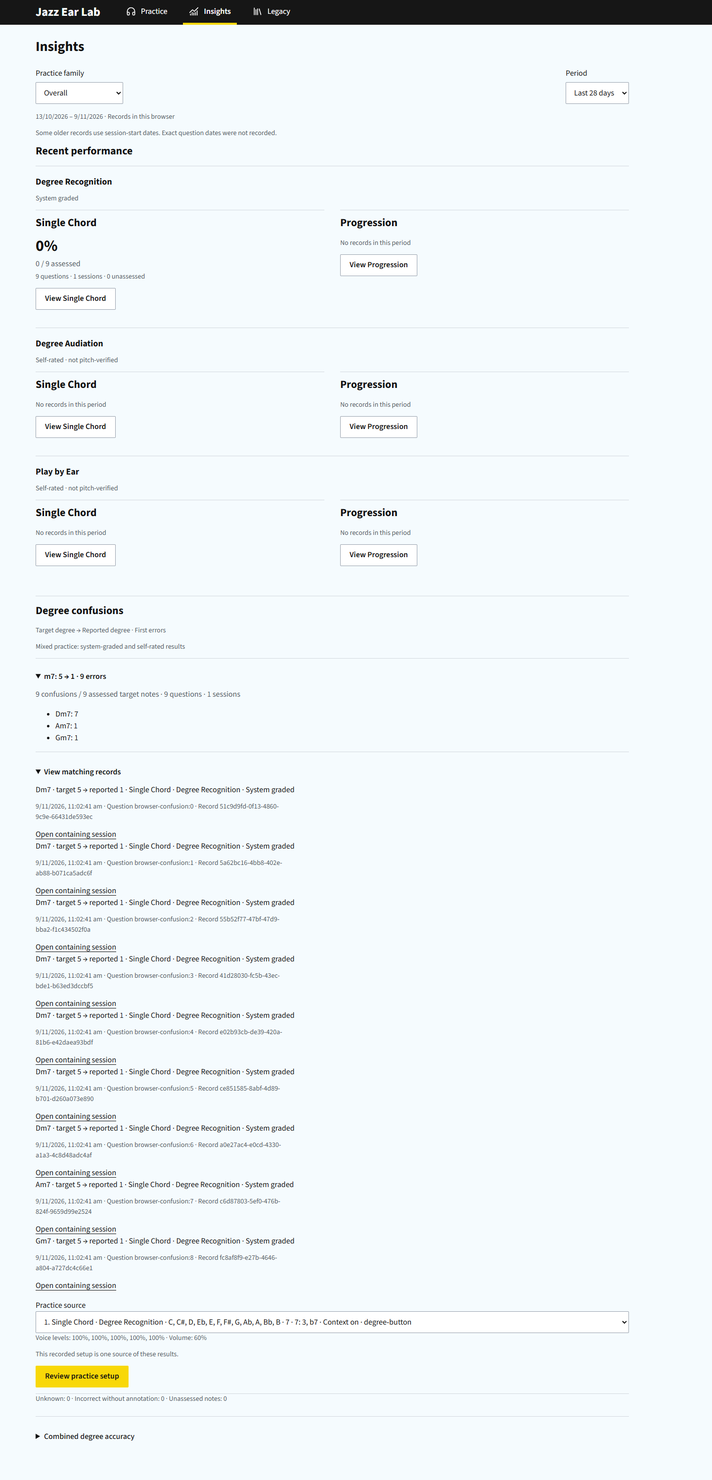
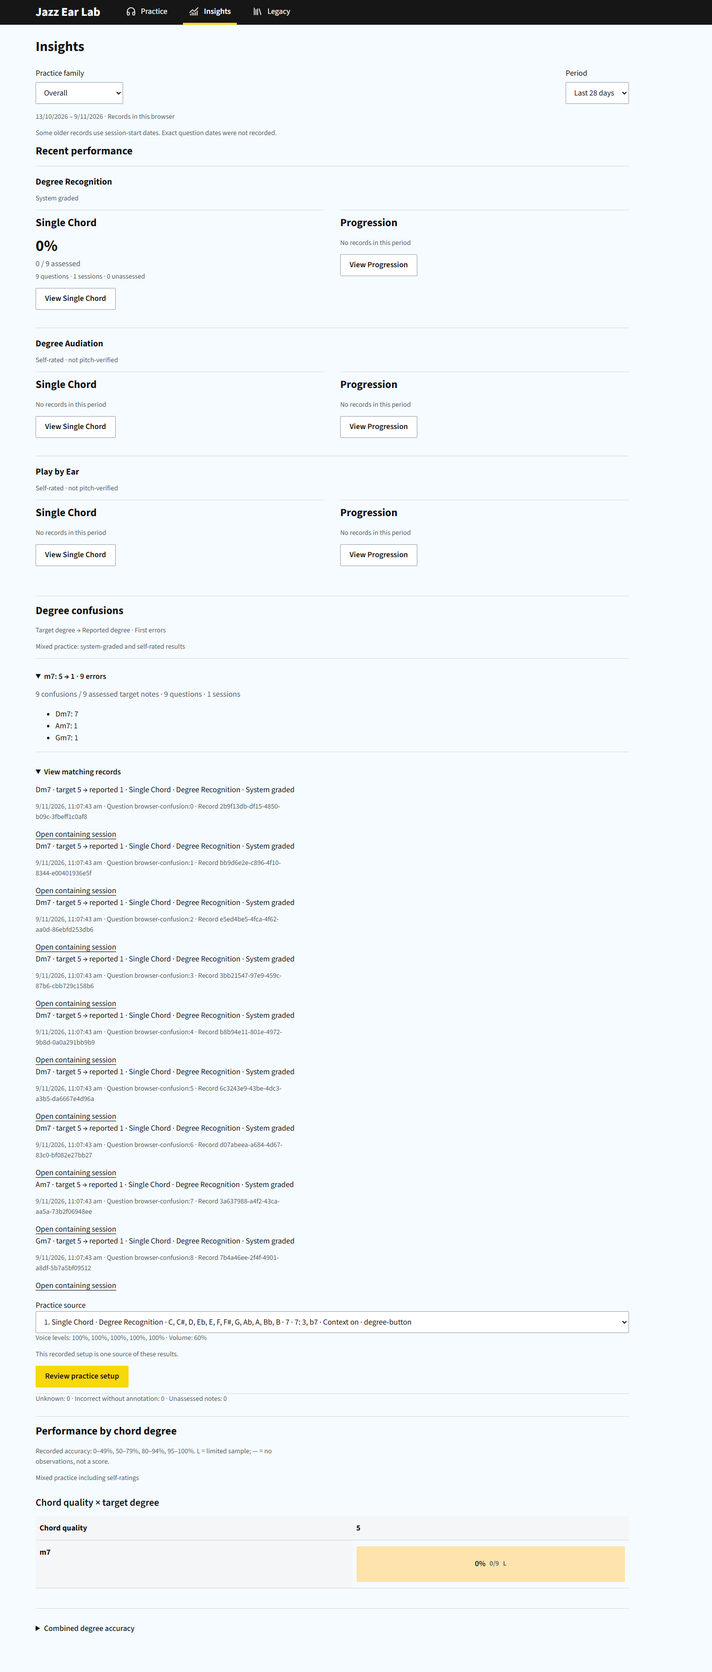
feat(v2): add chord degree performance heatmap (#29)

diff --git a/src/v2/insights-ui.ts b/src/v2/insights-ui.ts
@@ -1,7 +1,63 @@
 import {insightRecords,insightStats,insightPeriod,insightFilter,insightGroups,insightKeys,insightPriorities,insightConditionLabel,insightTrend,insightKeyComparison,insightEfficiency,insightEligible,insightStratum,insightSetupId,type InsightRecord,type InsightFamily,type InsightRun,type InsightFilters} from './insights.js';
 import {exerciseNames,modeForExercise} from './exercise-names.js';
 import type {Attempt,Session} from './model.js';
-import {insightConfusions} from './insights.js';
+import {insightConfusions,insightHeatmap} from './insights.js';
+
+function performanceSection(records:InsightRecord[],onSetup?: (record:InsightRecord,label:string,filters:InsightFilters)=>void){
+ const report=insightHeatmap(records),section=el('section','','insight-performance');
+ section.append(el('h2','Performance by chord degree'));
+ if(!report.cells.length){section.append(el('p','No recorded observations in this scope.'));return section;}
+ section.append(el('p','Recorded accuracy: 0–49%, 50–79%, 80–94%, 95–100%. L = limited sample; — = no observations, not a score.','insight-scope-note'));
+ const legend=el('div','','heatmap-legend');
+ for(const [band,text] of [['low','0–49%'],['mid','50–79%'],['high','80–94%'],['top','95–100%']]){const item=el('span',text),swatch=el('span','','heatmap-swatch');swatch.dataset.band=band;swatch.setAttribute('aria-hidden','true');item.prepend(swatch);legend.append(item);}section.append(legend);
+ if(view.family==='Overall')section.append(el('p','Mixed practice including self-ratings','insight-scope-note'));
+ const scroll=el('div','','table-scroll');scroll.tabIndex=0;scroll.setAttribute('role','region');scroll.setAttribute('aria-label','Chord degree performance');
+ const table=el('table'),head=el('thead'),tr=el('tr');table.append(el('caption','Chord quality × target degree'));
+ const corner=el('th','Chord quality');corner.scope='col';tr.append(corner);
+ for(const degree of report.degrees){const th=el('th',degree);th.scope='col';tr.append(th);}head.append(tr);table.append(head);
+ const body=el('tbody'),detail=el('section','','heatmap-evidence');detail.hidden=true;
+ let pending:string|null=null;
+ const scopeKey=JSON.stringify([view.family,view.context,view.days,view.key,view.root,view.quality,view.chord,view.degree,view.production,view.condition,view.setup]);
+ const stateKey='jazzEarLab:v2:heatmap:'+scopeKey;
+ const rememberReturn=()=>{try{sessionStorage.setItem(stateKey+':return','yes');}catch{/* Optional return focus. */}};
+ try{pending=sessionStorage.getItem(stateKey);}catch{/* Optional selection state. */}
+ for(const quality of report.qualities){
+  const row=el('tr'),th=el('th',quality);th.scope='row';row.append(th);
+  for(const degree of report.degrees){
+   const td=el('td'),cell=report.cells.find(c=>c.quality===quality&&c.degree===degree);
+   if(!cell){td.append(el('span','—'));td.setAttribute('aria-label',`${quality}, ${degree}: no observations`);row.append(td);continue;}
+   const label=`${quality}: ${degree}`,identity=JSON.stringify([quality,degree]);
+   const control=el('button',cell.rate===null?'Unassessed':Math.round(cell.rate*100)+'%','heatmap-cell');control.type='button';
+   const displayedRate=cell.rate===null?null:Math.round(cell.rate*100);
+   control.dataset.band=displayedRate===null?'none':displayedRate<50?'low':displayedRate<80?'mid':displayedRate<95?'high':'top';
+   control.append(el('small',`${cell.m.correct}/${cell.m.n}`),el('small',cell.status==='limited'?'L':cell.status==='unassessed'?'Not scored':''));
+   control.setAttribute('aria-label',`${label}, ${cell.rate===null?'unassessed':Math.round(cell.rate*100)+' percent'}, ${cell.m.correct} of ${cell.m.n} assessed notes, ${cell.m.questions} questions, ${cell.m.sessions} sessions, ${cell.status}`);
+   control.setAttribute('aria-pressed','false');
+   const selectCell=(focus=true)=>{
+    for(const b of Array.from(table.querySelectorAll('button')))b.setAttribute('aria-pressed',String(b===control));
+    control.setAttribute('aria-pressed','true');
+    try{sessionStorage.setItem(stateKey,identity);}catch{/* Optional selection state. */}
+    detail.hidden=false;detail.replaceChildren();const title=el('h3',`${label} · Recorded results`);title.tabIndex=-1;
+    detail.append(title,el('p',`${cell.m.correct} / ${cell.m.n} assessed notes · ${cell.m.questions} questions · ${cell.m.sessions} sessions · ${cell.m.unassessed} unassessed notes`),el('p',cell.status==='limited'?'Limited sample: not a reliable strength or weakness.':cell.status==='unassessed'?'No accuracy result yet.':'Recorded across the selected practice scope.'));
+    const evidence=details('Matching heatmap records');
+    for(const r of cell.items){const line=el('p'),link=el('a','Open containing session');link.href=r.href;link.onclick=rememberReturn;line.append(el('span',`${r.chordLabel} · ${r.degree} · ${r.a.firstCorrect===null?'Unassessed':r.a.firstCorrect?'Correct':'Incorrect'} · ${r.a.gradingSource==='self'?'Self-rated':'System graded'} · Question ${r.questionId} · Record ${r.a.id} `),link);evidence.append(line);}detail.append(evidence);
+    const sources=[...new Map(cell.items.filter(r=>r.sourceKnown).map(r=>[r.a.exercise+'|'+insightSetupId(r),r])).values()];
+    if(onSetup&&sources.length){const l=el('label','Practice source'),s=el('select');s.setAttribute('aria-label',`Practice source for ${label}`);
+     sources.forEach((r,i)=>{const c=r.source,levels='mode'in c?c.levels:c.voiceLevels??[1,1,1,1,1];const o=el('option',`${i+1}. ${exerciseNames[r.a.exercise]} · ${insightConditionLabel(r)} · Volume ${Math.round(c.volume*100)}% · Voices ${levels.map(v=>Math.round(v*100)+'%').join(', ')}`);o.value=String(i);s.append(o);});
+     const sourceKey=stateKey+':source:'+identity;try{const saved=sessionStorage.getItem(sourceKey);if(saved!==null&&sources[Number(saved)])s.value=saved;}catch{/* Optional source choice. */}
+     s.onchange=()=>{try{sessionStorage.setItem(sourceKey,s.value);}catch{/* Optional source choice. */}};
+     l.append(s);detail.append(l,el('p','One recorded setup, not every condition in this cell.','insight-scope-note'));
+     const action=el('button','Review practice setup');action.type='button';action.onclick=()=>{rememberReturn();onSetup(sources[Number(s.value)],label,{...(view.key?{key:view.key}:{}),...(view.root?{root:view.root}:{}),...(view.chord?{chord:view.chord}:{}),quality,degree});};detail.append(action);
+    }
+    const close=el('button','Back to heatmap','secondary');close.type='button';close.onclick=()=>{detail.hidden=true;control.setAttribute('aria-pressed','false');try{sessionStorage.removeItem(stateKey);}catch{/* Optional selection state. */}control.focus();};detail.append(close);
+    if(focus)title.focus();
+   };
+   control.onclick=()=>selectCell();td.append(control);row.append(td);
+   if(pending===identity){selectCell(false);try{if(sessionStorage.getItem(stateKey+':return')){sessionStorage.removeItem(stateKey+':return');requestAnimationFrame(()=>control.focus());}}catch{/* Optional return focus. */}}
+  }body.append(row);
+ }
+ table.append(body);scroll.append(table);section.append(scroll,detail);return section;
+}
 
 function confusionSection(records:InsightRecord[],onSetup?: (record:InsightRecord,label:string,filters:InsightFilters)=>void){
  const report=insightConfusions(records),section=el('section','','insight-confusions');
@@ -87,7 +143,7 @@ export function renderInsights(host:HTMLElement,sessions:Session[],runs:InsightR
    const active=Object.entries({key:view.key,root:view.root,quality:view.quality,chord:view.chord,degree:view.degree}).filter(([,value])=>value);if(active.length)host.append(el('p','Filters: '+active.map(([key,value])=>key+': '+value+(key==='key'?' (progression only)':'')).join(' · ')),button('Clear filters',reset));
    if(!scope.length){host.append(el('p',all.length?'No matching records in this period. Try a wider period.':'No V2 records in this browser. Choose an exercise to begin.'),button('Show all time',()=>{view.days=0;}));const link=el('a','Choose an exercise');link.href='#home';host.append(link);finish();return;}
    for(const family of families){const section=el('section','','insight-family');section.append(el('h3',family),el('p',family==='Degree Recognition'?'System graded':'Self-rated · not pitch-verified','insight-scope-note'));const grid=el('div','','insight-family-contexts');for(const context of ['Single Chord','Progression'] as const){const records=overviewRows.filter(r=>r.family===family&&r.context===context),block=outcome(records,context,true);const enter=button('View '+context+' · '+family,()=>changeScope(family,context));enter.setAttribute('aria-label','View '+context+' · '+family);enter.textContent='View '+context;block.append(enter);grid.append(block);}section.append(grid);host.append(section);}
-   host.append(confusionSection(overviewRows,onSetup),details('Combined degree accuracy',outcome(overviewRows,'Mixed practice including self-ratings')));
+   host.append(confusionSection(overviewRows,onSetup),performanceSection(overviewRows,onSetup),details('Combined degree accuracy',outcome(overviewRows,'Mixed practice including self-ratings')));
   }else{
    const mode=Object.entries(exerciseNames).find(([,name])=>name===view.context+' · '+view.family)![0];
    const allMode=all.filter(r=>r.a.exercise===mode).filter(r=>(!view.condition||insightStratum(r)===view.condition)&&(!view.setup||insightSetupId(r)===view.setup)).filter(r=>mode!=='m1'||view.production==='all'||(view.production==='played'?r.a.responseMethod==='played':['imagined','sung'].includes(r.a.responseMethod)));
@@ -116,7 +172,7 @@ export function renderInsights(host:HTMLElement,sessions:Session[],runs:InsightR
     const evidenceButton=button('View evidence: '+item.label,()=>{reset();Object.assign(view,item.filters);if(item.kind==='error')view.condition=insightStratum(item.basis)??'';else view.setup=insightSetupId(item.basis);view.dimension=item.filters.degree?'Degree':'Chord';});evidenceButton.setAttribute('aria-label','View evidence: '+item.label);evidenceButton.textContent='View evidence';row.append(evidenceButton);
     next.append(row);
    }const lead=el('div','','insight-lead'),performance=el('div');performance.append(result,trendSection);lead.append(performance,next);host.append(lead);
-   host.append(confusionSection(rows,onSetup));
+   host.append(confusionSection(rows,onSetup),performanceSection(rows,onSetup));
    const analysis=el('section','','insight-analysis');analysis.append(el('h2','Explore the music'));
    const tabs=el('div','','insight-tabs');
    for(const name of ['Key','Chord','Degree'])tabs.append(button(name==='Key'&&view.context==='Single Chord'?'Chord root':name,()=>{view.dimension=name;view.all=false;},view.dimension===name));analysis.append(tabs);

diff --git a/js/v2/insights-ui.js b/js/v2/insights-ui.js
@@ -1,6 +1,150 @@
 import { insightRecords, insightStats, insightPeriod, insightFilter, insightGroups, insightKeys, insightPriorities, insightConditionLabel, insightTrend, insightKeyComparison, insightEfficiency, insightEligible, insightStratum, insightSetupId } from './insights.js';
 import { exerciseNames, modeForExercise } from './exercise-names.js';
-import { insightConfusions } from './insights.js';
+import { insightConfusions, insightHeatmap } from './insights.js';
+function performanceSection(records, onSetup) {
+    const report = insightHeatmap(records), section = el('section', '', 'insight-performance');
+    section.append(el('h2', 'Performance by chord degree'));
+    if (!report.cells.length) {
+        section.append(el('p', 'No recorded observations in this scope.'));
+        return section;
+    }
+    section.append(el('p', 'Recorded accuracy: 0–49%, 50–79%, 80–94%, 95–100%. L = limited sample; — = no observations, not a score.', 'insight-scope-note'));
+    const legend = el('div', '', 'heatmap-legend');
+    for (const [band, text] of [['low', '0–49%'], ['mid', '50–79%'], ['high', '80–94%'], ['top', '95–100%']]) {
+        const item = el('span', text), swatch = el('span', '', 'heatmap-swatch');
+        swatch.dataset.band = band;
+        swatch.setAttribute('aria-hidden', 'true');
+        item.prepend(swatch);
+        legend.append(item);
+    }
+    section.append(legend);
+    if (view.family === 'Overall')
+        section.append(el('p', 'Mixed practice including self-ratings', 'insight-scope-note'));
+    const scroll = el('div', '', 'table-scroll');
+    scroll.tabIndex = 0;
+    scroll.setAttribute('role', 'region');
+    scroll.setAttribute('aria-label', 'Chord degree performance');
+    const table = el('table'), head = el('thead'), tr = el('tr');
+    table.append(el('caption', 'Chord quality × target degree'));
+    const corner = el('th', 'Chord quality');
+    corner.scope = 'col';
+    tr.append(corner);
+    for (const degree of report.degrees) {
+        const th = el('th', degree);
+        th.scope = 'col';
+        tr.append(th);
+    }
+    head.append(tr);
+    table.append(head);
+    const body = el('tbody'), detail = el('section', '', 'heatmap-evidence');
+    detail.hidden = true;
+    let pending = null;
+    const scopeKey = JSON.stringify([view.family, view.context, view.days, view.key, view.root, view.quality, view.chord, view.degree, view.production, view.condition, view.setup]);
+    const stateKey = 'jazzEarLab:v2:heatmap:' + scopeKey;
+    const rememberReturn = () => { try {
+        sessionStorage.setItem(stateKey + ':return', 'yes');
+    }
+    catch { /* Optional return focus. */ } };
+    try {
+        pending = sessionStorage.getItem(stateKey);
+    }
+    catch { /* Optional selection state. */ }
+    for (const quality of report.qualities) {
+        const row = el('tr'), th = el('th', quality);
+        th.scope = 'row';
+        row.append(th);
+        for (const degree of report.degrees) {
+            const td = el('td'), cell = report.cells.find(c => c.quality === quality && c.degree === degree);
+            if (!cell) {
+                td.append(el('span', '—'));
+                td.setAttribute('aria-label', `${quality}, ${degree}: no observations`);
+                row.append(td);
+                continue;
+            }
+            const label = `${quality}: ${degree}`, identity = JSON.stringify([quality, degree]);
+            const control = el('button', cell.rate === null ? 'Unassessed' : Math.round(cell.rate * 100) + '%', 'heatmap-cell');
+            control.type = 'button';
+            const displayedRate = cell.rate === null ? null : Math.round(cell.rate * 100);
+            control.dataset.band = displayedRate === null ? 'none' : displayedRate < 50 ? 'low' : displayedRate < 80 ? 'mid' : displayedRate < 95 ? 'high' : 'top';
+            control.append(el('small', `${cell.m.correct}/${cell.m.n}`), el('small', cell.status === 'limited' ? 'L' : cell.status === 'unassessed' ? 'Not scored' : ''));
+            control.setAttribute('aria-label', `${label}, ${cell.rate === null ? 'unassessed' : Math.round(cell.rate * 100) + ' percent'}, ${cell.m.correct} of ${cell.m.n} assessed notes, ${cell.m.questions} questions, ${cell.m.sessions} sessions, ${cell.status}`);
+            control.setAttribute('aria-pressed', 'false');
+            const selectCell = (focus = true) => {
+                for (const b of Array.from(table.querySelectorAll('button')))
+                    b.setAttribute('aria-pressed', String(b === control));
+                control.setAttribute('aria-pressed', 'true');
+                try {
+                    sessionStorage.setItem(stateKey, identity);
+                }
+                catch { /* Optional selection state. */ }
+                detail.hidden = false;
+                detail.replaceChildren();
+                const title = el('h3', `${label} · Recorded results`);
+                title.tabIndex = -1;
+                detail.append(title, el('p', `${cell.m.correct} / ${cell.m.n} assessed notes · ${cell.m.questions} questions · ${cell.m.sessions} sessions · ${cell.m.unassessed} unassessed notes`), el('p', cell.status === 'limited' ? 'Limited sample: not a reliable strength or weakness.' : cell.status === 'unassessed' ? 'No accuracy result yet.' : 'Recorded across the selected practice scope.'));
+                const evidence = details('Matching heatmap records');
+                for (const r of cell.items) {
+                    const line = el('p'), link = el('a', 'Open containing session');
+                    link.href = r.href;
+                    link.onclick = rememberReturn;
+                    line.append(el('span', `${r.chordLabel} · ${r.degree} · ${r.a.firstCorrect === null ? 'Unassessed' : r.a.firstCorrect ? 'Correct' : 'Incorrect'} · ${r.a.gradingSource === 'self' ? 'Self-rated' : 'System graded'} · Question ${r.questionId} · Record ${r.a.id} `), link);
+                    evidence.append(line);
+                }
+                detail.append(evidence);
+                const sources = [...new Map(cell.items.filter(r => r.sourceKnown).map(r => [r.a.exercise + '|' + insightSetupId(r), r])).values()];
+                if (onSetup && sources.length) {
+                    const l = el('label', 'Practice source'), s = el('select');
+                    s.setAttribute('aria-label', `Practice source for ${label}`);
+                    sources.forEach((r, i) => { const c = r.source, levels = 'mode' in c ? c.levels : c.voiceLevels ?? [1, 1, 1, 1, 1]; const o = el('option', `${i + 1}. ${exerciseNames[r.a.exercise]} · ${insightConditionLabel(r)} · Volume ${Math.round(c.volume * 100)}% · Voices ${levels.map(v => Math.round(v * 100) + '%').join(', ')}`); o.value = String(i); s.append(o); });
+                    const sourceKey = stateKey + ':source:' + identity;
+                    try {
+                        const saved = sessionStorage.getItem(sourceKey);
+                        if (saved !== null && sources[Number(saved)])
+                            s.value = saved;
+                    }
+                    catch { /* Optional source choice. */ }
+                    s.onchange = () => { try {
+                        sessionStorage.setItem(sourceKey, s.value);
+                    }
+                    catch { /* Optional source choice. */ } };
+                    l.append(s);
+                    detail.append(l, el('p', 'One recorded setup, not every condition in this cell.', 'insight-scope-note'));
+                    const action = el('button', 'Review practice setup');
+                    action.type = 'button';
+                    action.onclick = () => { rememberReturn(); onSetup(sources[Number(s.value)], label, { ...(view.key ? { key: view.key } : {}), ...(view.root ? { root: view.root } : {}), ...(view.chord ? { chord: view.chord } : {}), quality, degree }); };
+                    detail.append(action);
+                }
+                const close = el('button', 'Back to heatmap', 'secondary');
+                close.type = 'button';
+                close.onclick = () => { detail.hidden = true; control.setAttribute('aria-pressed', 'false'); try {
+                    sessionStorage.removeItem(stateKey);
+                }
+                catch { /* Optional selection state. */ } control.focus(); };
+                detail.append(close);
+                if (focus)
+                    title.focus();
+            };
+            control.onclick = () => selectCell();
+            td.append(control);
+            row.append(td);
+            if (pending === identity) {
+                selectCell(false);
+                try {
+                    if (sessionStorage.getItem(stateKey + ':return')) {
+                        sessionStorage.removeItem(stateKey + ':return');
+                        requestAnimationFrame(() => control.focus());
+                    }
+                }
+                catch { /* Optional return focus. */ }
+            }
+        }
+        body.append(row);
+    }
+    table.append(body);
+    scroll.append(table);
+    section.append(scroll, detail);
+    return section;
+}
 function confusionSection(records, onSetup) {
     const report = insightConfusions(records), section = el('section', '', 'insight-confusions');
     section.append(el('h2', 'Degree confusions'), el('p', 'Target degree → Reported degree · First errors', 'insight-scope-note'));
@@ -191,7 +335,7 @@ export function renderInsights(host, sessions, runs, evidence, onSetup) {
                 section.append(grid);
                 host.append(section);
             }
-            host.append(confusionSection(overviewRows, onSetup), details('Combined degree accuracy', outcome(overviewRows, 'Mixed practice including self-ratings')));
+            host.append(confusionSection(overviewRows, onSetup), performanceSection(overviewRows, onSetup), details('Combined degree accuracy', outcome(overviewRows, 'Mixed practice including self-ratings')));
         }
         else {
             const mode = Object.entries(exerciseNames).find(([, name]) => name === view.context + ' · ' + view.family)[0];
@@ -263,7 +407,7 @@ export function renderInsights(host, sessions, runs, evidence, onSetup) {
             performance.append(result, trendSection);
             lead.append(performance, next);
             host.append(lead);
-            host.append(confusionSection(rows, onSetup));
+            host.append(confusionSection(rows, onSetup), performanceSection(rows, onSetup));
             const analysis = el('section', '', 'insight-analysis');
             analysis.append(el('h2', 'Explore the music'));
             const tabs = el('div', '', 'insight-tabs');

diff --git a/jazz-ear-lab-v2/v2.css b/jazz-ear-lab-v2/v2.css
@@ -475,3 +475,24 @@ input[type="number"], output, .session-count, .assessment-count, .unassessed,
 .insight-confusions select{max-width:100%;width:100%;min-width:0;}
 .insight-confusions p,.insight-confusions a{overflow-wrap:anywhere;}
 .insight-confusions button{white-space:normal;}
+.insight-performance{border-top:1px solid #d4d9df;padding:16px 0;margin:24px 0;min-width:0;}
+.insight-performance .table-scroll{max-width:100%;overflow-x:auto;}
+.insight-performance table{width:max-content;min-width:min(100%,640px);}
+.insight-performance .heatmap-cell{display:flex;flex-direction:column;align-items:center;justify-content:center;gap:2px;width:100%;min-width:80px;min-height:72px;padding:8px;color:#111;border:1px solid transparent;border-radius:2px;font-variant-numeric:tabular-nums;}
+.heatmap-cell small{display:block;}
+.insights-work .insight-performance .heatmap-cell[data-band=none]{background:#edf0f2;}
+.insights-work .insight-performance .heatmap-cell[data-band=low]{background:#ffe3ac;}
+.insights-work .insight-performance .heatmap-cell[data-band=mid]{background:#e4efd9;}
+.insights-work .insight-performance .heatmap-cell[data-band=high]{background:#a8e4d4;}
+.insights-work .insight-performance .heatmap-cell[data-band=top]{background:#62cdb7;}
+.insights-work .insight-performance .heatmap-cell[aria-pressed=true]{border:2px solid #111;}
+.heatmap-evidence{border-top:1px solid #d4d9df;margin-top:16px;padding-top:16px;}
+.heatmap-evidence p,.heatmap-evidence a{overflow-wrap:anywhere;}
+.heatmap-evidence select{width:100%;min-width:0;max-width:100%;}
+.heatmap-legend{display:flex;flex-wrap:wrap;gap:12px;margin-bottom:16px;}
+.heatmap-legend>span{display:inline-flex;align-items:center;gap:6px;}
+.heatmap-swatch{display:inline-block;width:18px;height:18px;border:1px solid #7b8790;}
+.heatmap-swatch[data-band=low]{background:#ffe3ac;}
+.heatmap-swatch[data-band=mid]{background:#e4efd9;}
+.heatmap-swatch[data-band=high]{background:#a8e4d4;}
+.heatmap-swatch[data-band=top]{background:#62cdb7;}

diff --git a/js/v2/insights.js b/js/v2/insights.js
@@ -258,6 +258,23 @@ export function insightEfficiency(records) {
     return { groups: [...values.values()].map(g => { g.values.sort((a, b) => a - b); const n = g.values.length; return { label: g.label, n, median: (g.values[Math.floor(n / 2)] + g.values[Math.floor((n - 1) / 2)]) / 2 }; }), excluded: [...excluded].map(([reason, n]) => ({ reason, n })) };
 }
 export function insightSetupId(r) { return stable(sourceConditions(r)); }
+export function insightHeatmap(records) {
+    const groups = new Map();
+    for (const r of new Map(records.map(r => [r.a.id, r])).values()) {
+        const key = JSON.stringify([r.quality, r.degree]), items = groups.get(key) ?? [];
+        items.push(r);
+        groups.set(key, items);
+    }
+    const cells = [...groups.values()].map(items => {
+        const m = insightStats(items);
+        return { quality: items[0].quality, degree: items[0].degree, items, m, rate: m.n ? m.correct / m.n : null,
+            status: !m.n ? 'unassessed' : insightEligible(items) ? 'recorded' : 'limited' };
+    });
+    const degreeOrder = (d) => d === 'maj7' ? 7 : Number(d.replace(/[#b]/g, ''));
+    return { cells, qualities: [...new Set(cells.map(c => c.quality))].sort(),
+        degrees: [...new Set(cells.map(c => c.degree))].sort((a, b) => degreeOrder(a) - degreeOrder(b) ||
+            ([...a].filter(c => c === '#').length - [...a].filter(c => c === 'b').length) - ([...b].filter(c => c === '#').length - [...b].filter(c => c === 'b').length) || a.localeCompare(b)) };
+}
 export function insightConfusions(records) {
     const unique = [...new Map(records.map(r => [r.a.id, r])).values()];
     const directions = new Map();

diff --git a/src/v2/insights.ts b/src/v2/insights.ts
@@ -173,6 +173,23 @@ export function insightEfficiency(records:InsightRecord[]){
 
 export function insightSetupId(r:InsightRecord){return stable(sourceConditions(r));}
 
+export function insightHeatmap(records:InsightRecord[]){
+ const groups=new Map<string,InsightRecord[]>();
+ for(const r of new Map(records.map(r=>[r.a.id,r])).values()){
+  const key=JSON.stringify([r.quality,r.degree]),items=groups.get(key)??[];
+  items.push(r);groups.set(key,items);
+ }
+ const cells=[...groups.values()].map(items=>{
+  const m=insightStats(items);
+  return {quality:items[0].quality,degree:items[0].degree,items,m,rate:m.n?m.correct/m.n:null,
+   status:!m.n?'unassessed':insightEligible(items)?'recorded':'limited'};
+ });
+ const degreeOrder=(d:string)=>d==='maj7'?7:Number(d.replace(/[#b]/g,''));
+ return {cells,qualities:[...new Set(cells.map(c=>c.quality))].sort(),
+  degrees:[...new Set(cells.map(c=>c.degree))].sort((a,b)=>degreeOrder(a)-degreeOrder(b)||
+   ([...a].filter(c=>c==='#').length-[...a].filter(c=>c==='b').length)-([...b].filter(c=>c==='#').length-[...b].filter(c=>c==='b').length)||a.localeCompare(b))};
+}
+
 export function insightConfusions(records:InsightRecord[]) {
  const unique=[...new Map(records.map(r=>[r.a.id,r])).values()];
  const directions=new Map<string,{quality:string;target:string;reported:string;items:InsightRecord[]}>();

diff --git a/.impeccable/review/v2-heatmap/README.md b/.impeccable/review/v2-heatmap/README.md
@@ -1,0 +1,27 @@
+# Performance heatmap (#29)
+
+Synthetic fixtures only; no personal browser records read or changed.
+
+Checks: TypeScript build and 176 Node tests passed; three existing Insights
+browser suites passed; new heatmap browser journey passed in Edge. New tests
+cover 15/30 aggregation rather than percentage averaging, deduplication,
+immutable input, deliberate degree spellings, unassessed and zero-correct
+states, exact evidence count, labelled source preview, selection on return,
+keyboard close/focus restoration, mode scope and no whole-page overflow at
+1440/390/320px. Screenshots are cropped to the new section, with bounded
+horizontal table scrolling on narrow screens.
+
+No audio/scoring changes. Full V2 playback regression was not rerun for this
+ticket: the previous attempt stopped on a Roots uncheck timeout, as recorded
+under v2-confusions. Physical phones, screen readers and 200% browser zoom
+remain integration checks for #32. These checks do not certify the complete
+summary-first composition: narrative summary and confusion matrix remain
+separate tickets #31 and #30.
+
+Standards review identified return focus, selected-colour specificity and
+rounded-percentage band discrepancies; these were fixed. Spec review identified
+source ambiguity/persistence, missing swatches and coverage limits. Added full
+source settings, stored source choice, swatches and actual Back to Insights
+navigation. Focused browser retest passed with selected-colour and return-focus
+assertions. A complete six-mode/mixed-source/zoom matrix is still owed by #32;
+the focused fixture is not presented as exhaustive integration coverage.
